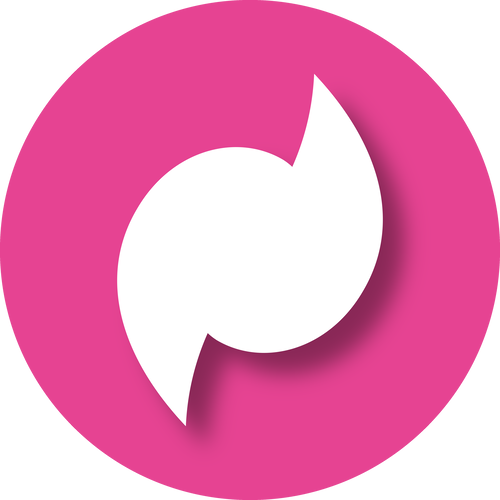
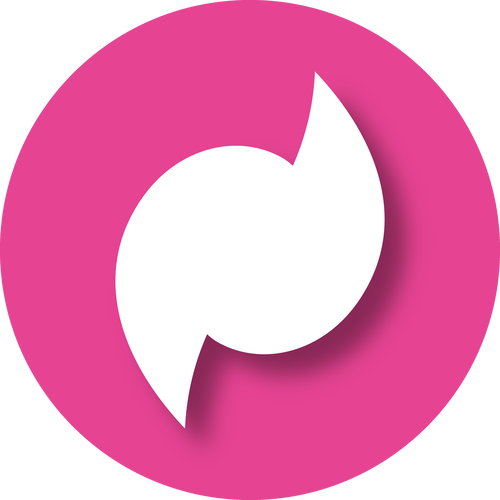
Equalize symbol sizes and list the ten Kcalb Ltd brands
The symbols of the brand family now share the same perceived size, so
the icons align when shown side by side. PNG exports and the manifest
are regenerated from the updated vector masters, and the README family
table adds InoPulse, InoPlace and InoShop.

diff --git a/README.md b/README.md
@@ -21,7 +21,7 @@ InoSwap is a brand of [Kcalb Ltd](https://kcalb-ltd.com), part of the KcalbApp e
 
 Every PNG is rendered from the SVG masters. Use the SVG whenever the platform accepts it, otherwise the smallest PNG that is at least as large as the display size on a high-density screen.
 
-Direct links, for integrations: `https://raw.githubusercontent.com/KcalbApp/inoswap-brand/main/assets/png/round/inoswap-round-500.png`. For production, pin a commit hash instead of `main` and check the file against [asset-manifest.json](asset-manifest.json).
+Direct links, for integrations: `https://raw.githubusercontent.com/Kcalb-Ltd/inoswap-brand/main/assets/png/round/inoswap-round-500.png`. For production, pin a commit hash instead of `main` and check the file against [asset-manifest.json](asset-manifest.json).
 
 ## Official colors
 
@@ -49,15 +49,18 @@ The icon is a flat brand color with a white symbol and a soft drop shadow toward
 
 | Brand | Assets | Website |
 |---|---|---|
-| Xitcoin | [`xitcoin-org/brand`](https://github.com/xitcoin-org/brand) | [xitcoin.org](https://xitcoin.org) |
-| KcalbApp | [`KcalbApp/kcalbapp-brand`](https://github.com/KcalbApp/kcalbapp-brand) | [kcalb-ltd.com](https://kcalb-ltd.com) |
-| InoAi | [`KcalbApp/inoai-brand`](https://github.com/KcalbApp/inoai-brand) | [inoai.org](https://inoai.org) |
-| Kcanther | [`KcalbApp/kcanther-brand`](https://github.com/KcalbApp/kcanther-brand) | [kcanther.org](https://kcanther.org) |
-| InoSwap | [`KcalbApp/inoswap-brand`](https://github.com/KcalbApp/inoswap-brand) | [inoswap.org](https://inoswap.org) |
-| StakeHolDrop | [`KcalbApp/stakeholdrop-brand`](https://github.com/KcalbApp/stakeholdrop-brand) | [stakeholdrop.com](https://stakeholdrop.com) |
-| Crypto-Only | [`KcalbApp/crypto-only-brand`](https://github.com/KcalbApp/crypto-only-brand) | [crypto-only.org](https://crypto-only.org) |
+| InoPulse | [`Kcalb-Ltd/inopulse-brand`](https://github.com/Kcalb-Ltd/inopulse-brand) | [inopulse.org](https://inopulse.org) |
+| Crypto-Only | [`Kcalb-Ltd/crypto-only-brand`](https://github.com/Kcalb-Ltd/crypto-only-brand) | [crypto-only.org](https://crypto-only.org) |
+| KcalbApp | [`Kcalb-Ltd/kcalbapp-brand`](https://github.com/Kcalb-Ltd/kcalbapp-brand) | [kcalb-ltd.com](https://kcalb-ltd.com) |
+| StakeHolDrop | [`Kcalb-Ltd/stakeholdrop-brand`](https://github.com/Kcalb-Ltd/stakeholdrop-brand) | [stakeholdrop.com](https://stakeholdrop.com) |
+| InoAi | [`Kcalb-Ltd/inoai-brand`](https://github.com/Kcalb-Ltd/inoai-brand) | [inoai.org](https://inoai.org) |
+| InoSwap | [`Kcalb-Ltd/inoswap-brand`](https://github.com/Kcalb-Ltd/inoswap-brand) | [inoswap.org](https://inoswap.org) |
+| InoPlace | [`Kcalb-Ltd/inoplace-brand`](https://github.com/Kcalb-Ltd/inoplace-brand) | [inoplace.org](https://inoplace.org) |
+| Kcanther | [`Kcalb-Ltd/kcanther-brand`](https://github.com/Kcalb-Ltd/kcanther-brand) | [kcanther.org](https://kcanther.org) |
+| Xitcoin | [`Xitcoin-org/brand`](https://github.com/Xitcoin-org/brand) | [xitcoin.org](https://xitcoin.org) |
+| InoShop | [`Kcalb-Ltd/inoshop-brand`](https://github.com/Kcalb-Ltd/inoshop-brand) | [inoshop.org](https://inoshop.org) |
 
 ## License and contact
 
 Copyright © 2026 Kcalb Ltd. All rights reserved — the [LICENSE](LICENSE) allows use of the unmodified files to refer to InoSwap.
-Questions and requests: **contact@inoswap.org**, or open an [issue](https://github.com/KcalbApp/inoswap-brand/issues).
+Questions and requests: **contact@inoswap.org**, or open an [issue](https://github.com/Kcalb-Ltd/inoswap-brand/issues).

diff --git a/ASSETS.md b/ASSETS.md
@@ -2,7 +2,7 @@
 
 Generated 24 September 2026. The [machine-readable manifest](asset-manifest.json) records byte lengths and SHA-256 identifiers; `scripts/verify-assets.py` checks them on every change.
 
[2 lines of base64/hex data omitted]
 
 | File | Format | Size | Use |
 |---|---|---|---|
